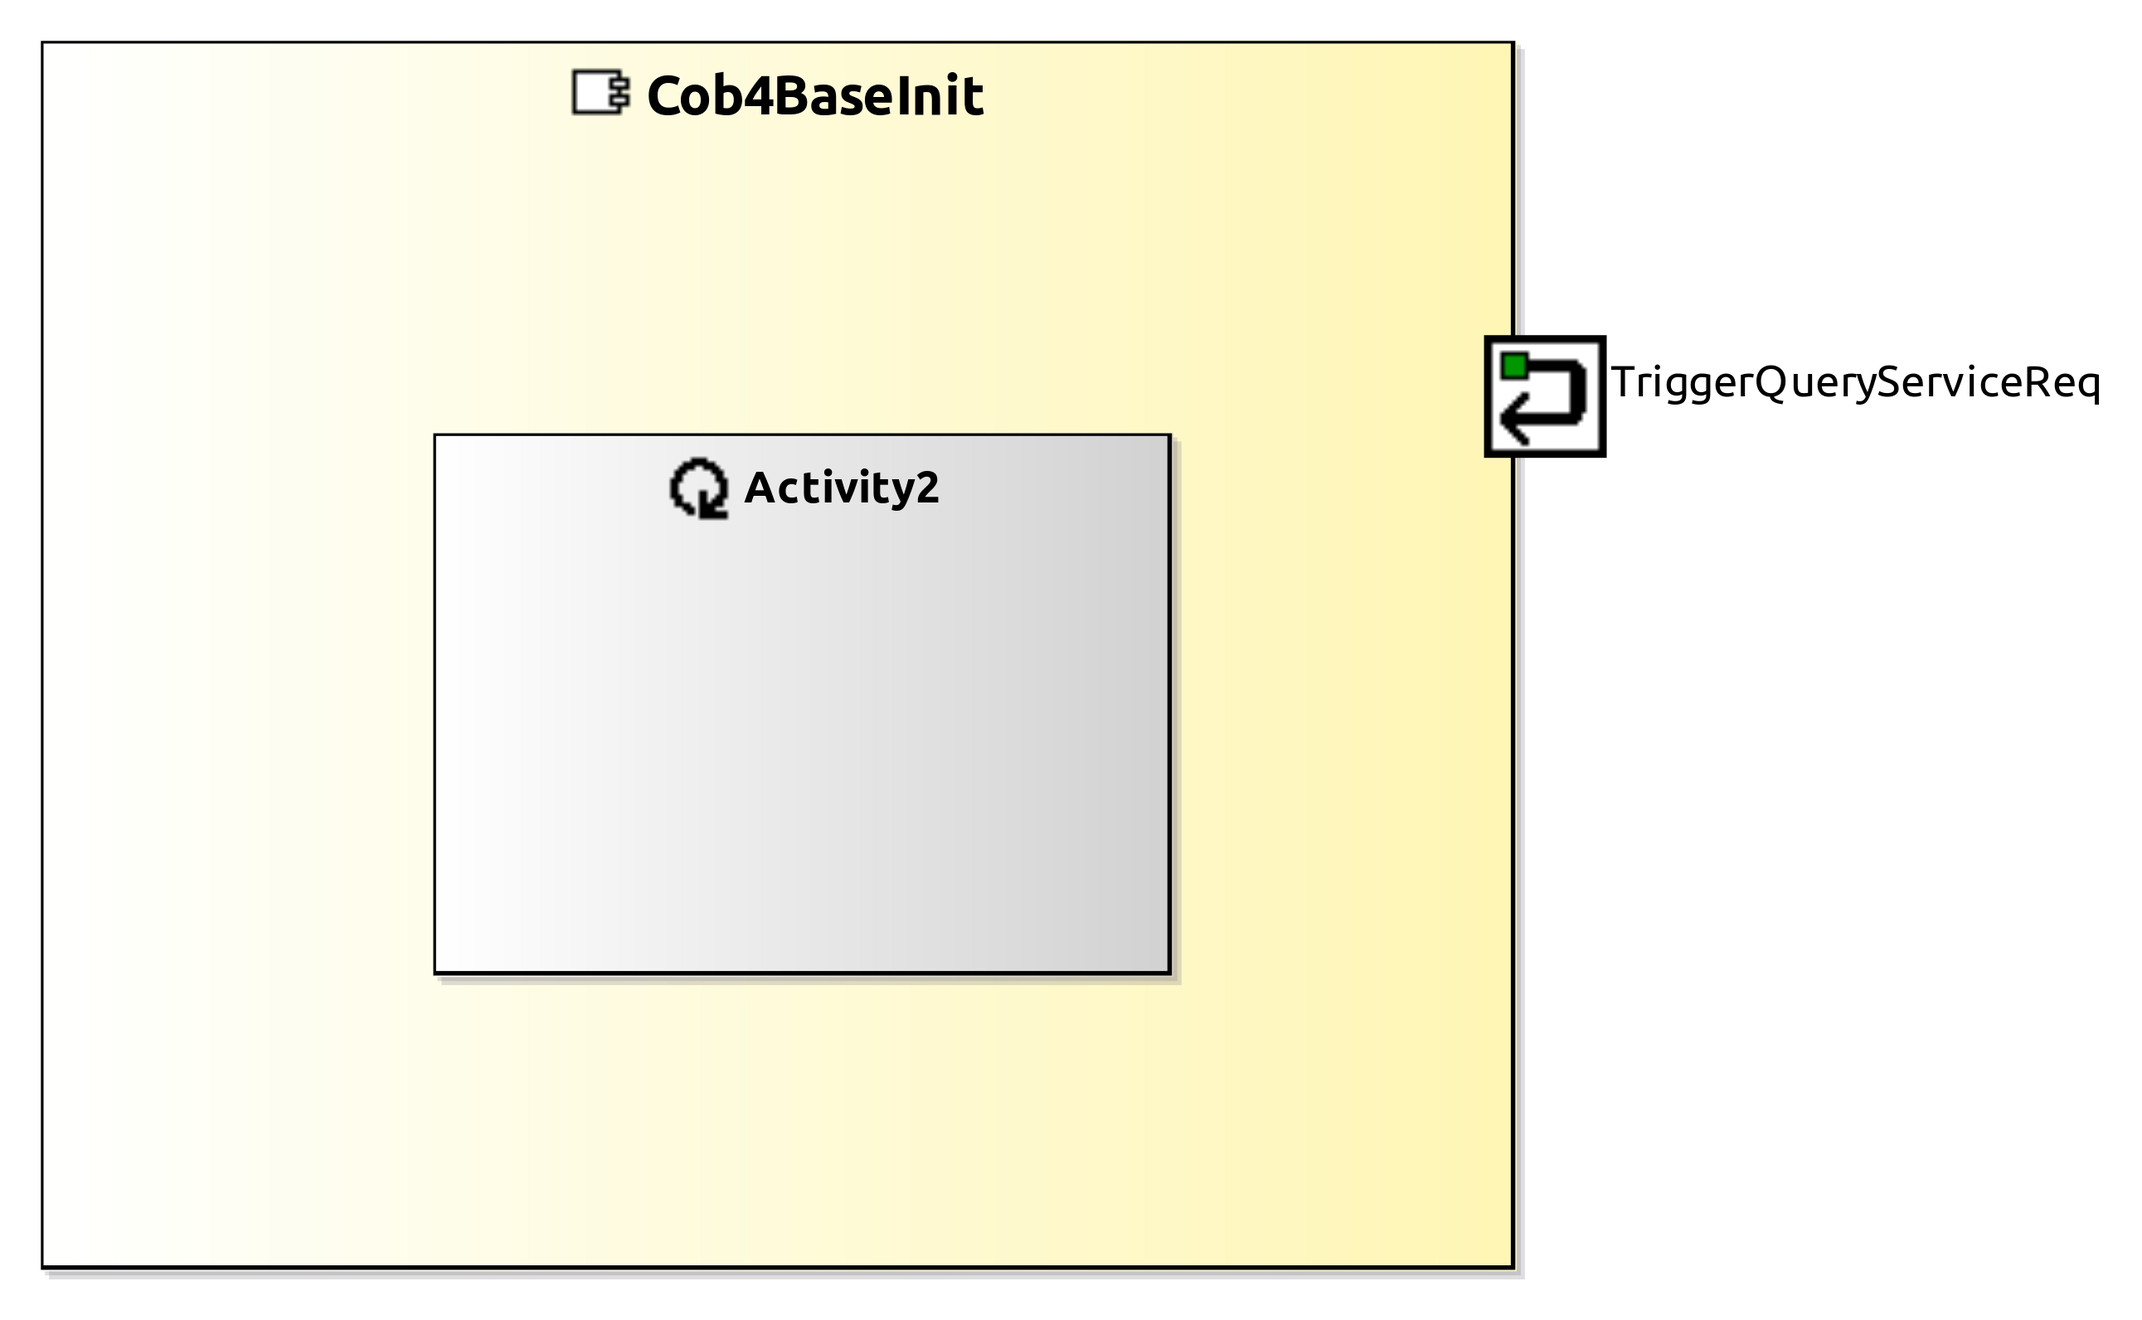
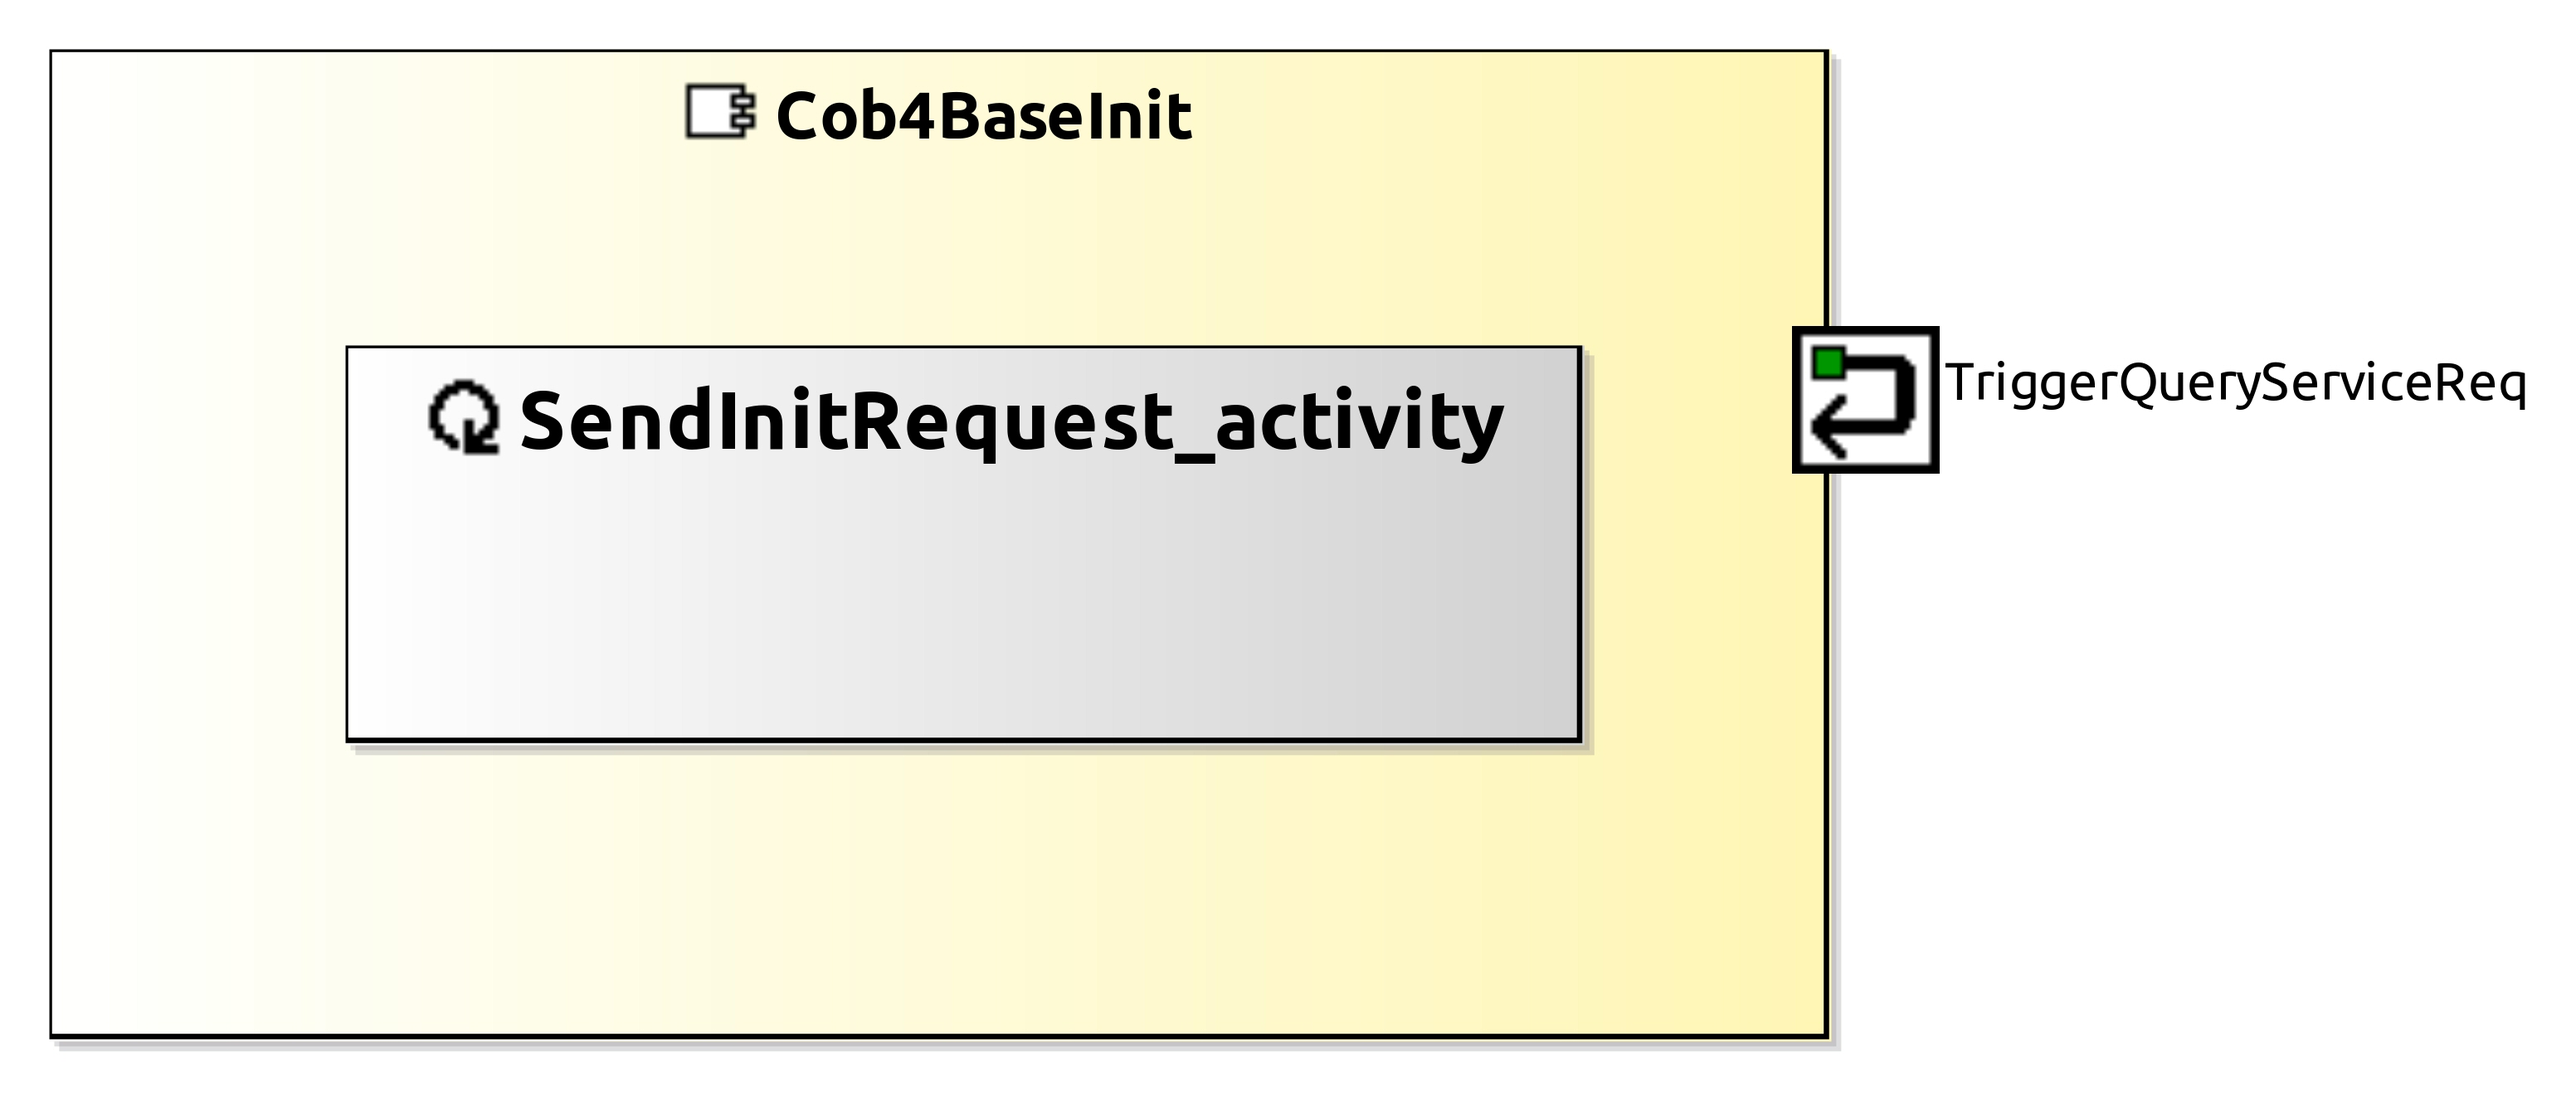
[RosServiceServer] Updated experiment files

Changed region(s): [[0.0, 0.0309, 0.9911, 0.9894], [0.1239, 0.3092, 0.6194, 0.773], [0.1239, 0.3092, 0.1549, 0.3401]]

diff --git a/SeRoNet-Tooling-ROS-Mixed-Port/ROS-MixedPort-Examples/ROSServiceCall_examples/ComponentROSBaseInit/smartsoft/src-gen/ComponentROSBaseInit.cc b/SeRoNet-Tooling-ROS-Mixed-Port/ROS-MixedPort-Examples/ROSServiceCall_examples/ComponentROSBaseInit/smartsoft/src-gen/ComponentROSBaseInit.cc
@@ -31,10 +31,10 @@ ComponentROSBaseInit::ComponentROSBaseInit()
 	std::cout << "constructor of ComponentROSBaseInit\n";
 	
 	// set all pointer members to NULL
-	triggerQueryServiceAnsw = NULL;
-	triggerQueryServiceAnswInputTaskTrigger = NULL;
-	triggerQueryServiceAnswHandler = NULL;
 	//_base_driver_init_srvcli = NULL;
+	base_driver_init = NULL;
+	base_driver_initServiceAnsw = NULL;
+	base_driver_initServiceAnswInputTaskTrigger = NULL;
 	stateChangeHandler = NULL;
 	stateSlave = NULL;
 	wiringSlave = NULL;
@@ -45,8 +45,8 @@ ComponentROSBaseInit::ComponentROSBaseInit()
 	connections.component.defaultScheduler = "DEFAULT";
 	connections.component.useLogger = false;
 	
-	connections.triggerQueryServiceAnsw.serviceName = "TriggerQueryServiceAnsw";
-	connections.triggerQueryServiceAnsw.roboticMiddleware = "ACE_SmartSoft";
+	connections.base_driver_initServiceAnsw.serviceName = "base_driver_initServiceAnsw";
+	connections.base_driver_initServiceAnsw.roboticMiddleware = "ACE_SmartSoft";
 	
 	// initialize members of ComponentROSBaseInitROSExtension
 	rosPorts = 0;
@@ -166,8 +166,8 @@ void ComponentROSBaseInit::init(int argc, char *argv[])
 		
 		// create server ports
 		// TODO: set minCycleTime from Ini-file
-		triggerQueryServiceAnsw = portFactoryRegistry[connections.triggerQueryServiceAnsw.roboticMiddleware]->createTriggerQueryServiceAnsw(connections.triggerQueryServiceAnsw.serviceName);
-		triggerQueryServiceAnswInputTaskTrigger = new Smart::QueryServerTaskTrigger<ROSRos_core::Std_srvs_TriggerRequest, ROSRos_core::Std_srvs_TriggerResponse>(triggerQueryServiceAnsw);
+		base_driver_initServiceAnsw = portFactoryRegistry[connections.base_driver_initServiceAnsw.roboticMiddleware]->createBase_driver_initServiceAnsw(connections.base_driver_initServiceAnsw.serviceName);
+		base_driver_initServiceAnswInputTaskTrigger = new Smart::QueryServerTaskTrigger<ROSRos_core::Std_srvs_TriggerRequest, ROSRos_core::Std_srvs_TriggerResponse>(base_driver_initServiceAnsw);
 		
 		// create client ports
 		
@@ -176,7 +176,7 @@ void ComponentROSBaseInit::init(int argc, char *argv[])
 		// create input-handler
 		
 		// create request-handlers
-		triggerQueryServiceAnswHandler = new TriggerQueryServiceAnswHandler(triggerQueryServiceAnsw);
+		base_driver_init = new Base_driver_init(base_driver_initServiceAnsw);
 		
 		// create state pattern
 		stateChangeHandler = new SmartStateChangeHandler();
@@ -260,12 +260,12 @@ void ComponentROSBaseInit::fini()
 	// destroy client ports
 
 	// destroy server ports
-	delete triggerQueryServiceAnsw;
-	delete triggerQueryServiceAnswInputTaskTrigger;
+	delete base_driver_initServiceAnsw;
+	delete base_driver_initServiceAnswInputTaskTrigger;
 	// destroy event-test handlers (if needed)
 	
 	// destroy request-handlers
-	delete triggerQueryServiceAnswHandler;
+	delete base_driver_init;
 	
 	delete stateSlave;
 	// destroy state-change-handler
@@ -366,10 +366,10 @@ void ComponentROSBaseInit::loadParameter(int argc, char *argv[])
 		}
 		
 		
-		// load parameters for server TriggerQueryServiceAnsw
-		parameter.getString("TriggerQueryServiceAnsw", "serviceName", connections.triggerQueryServiceAnsw.serviceName);
-		if(parameter.checkIfParameterExists("TriggerQueryServiceAnsw", "roboticMiddleware")) {
-			parameter.getString("TriggerQueryServiceAnsw", "roboticMiddleware", connections.triggerQueryServiceAnsw.roboticMiddleware);
+		// load parameters for server base_driver_initServiceAnsw
+		parameter.getString("base_driver_initServiceAnsw", "serviceName", connections.base_driver_initServiceAnsw.serviceName);
+		if(parameter.checkIfParameterExists("base_driver_initServiceAnsw", "roboticMiddleware")) {
+			parameter.getString("base_driver_initServiceAnsw", "roboticMiddleware", connections.base_driver_initServiceAnsw.roboticMiddleware);
 		}
 		
 		

diff --git a/SeRoNet-Tooling-ROS-Mixed-Port/ROS-MixedPort-Examples/ROSServiceCall_examples/ComponentROSBaseInit/smartsoft/src-gen/Base_driver_initCore.cc b/SeRoNet-Tooling-ROS-Mixed-Port/ROS-MixedPort-Examples/ROSServiceCall_examples/ComponentROSBaseInit/smartsoft/src-gen/Base_driver_initCore.cc
@@ -13,39 +13,39 @@
 // Please do not modify this file. It will be re-generated
 // running the code generator.
 //--------------------------------------------------------------------------
-#include "TriggerQueryServiceAnswHandlerCore.hh"
-#include "TriggerQueryServiceAnswHandler.hh"
+#include "Base_driver_initCore.hh"
+#include "Base_driver_init.hh"
 
 // include observers
 
-TriggerQueryServiceAnswHandlerCore::TriggerQueryServiceAnswHandlerCore(IQueryServer* server)
+Base_driver_initCore::Base_driver_initCore(IQueryServer* server)
 :	Smart::IInputHandler<std::pair<Smart::QueryIdPtr,ROSRos_core::Std_srvs_TriggerRequest>>(server)
 ,	server(server)
 {
 	
 }
 
-void TriggerQueryServiceAnswHandlerCore::updateAllCommObjects()
+void Base_driver_initCore::updateAllCommObjects()
 {
 }
 
-void TriggerQueryServiceAnswHandlerCore::notify_all_interaction_observers() {
+void Base_driver_initCore::notify_all_interaction_observers() {
 	std::unique_lock<std::mutex> lock(interaction_observers_mutex);
 	// try dynamically down-casting this class to the derived class 
 	// (we can do it safely here as we exactly know the derived class)
-	if(const TriggerQueryServiceAnswHandler* triggerQueryServiceAnswHandler = dynamic_cast<const TriggerQueryServiceAnswHandler*>(this)) {
+	if(const Base_driver_init* base_driver_init = dynamic_cast<const Base_driver_init*>(this)) {
 		for(auto it=interaction_observers.begin(); it!=interaction_observers.end(); it++) {
-			(*it)->on_update_from(triggerQueryServiceAnswHandler);
+			(*it)->on_update_from(base_driver_init);
 		}
 	}
 }
 
-void TriggerQueryServiceAnswHandlerCore::attach_interaction_observer(TriggerQueryServiceAnswHandlerObserverInterface *observer) {
+void Base_driver_initCore::attach_interaction_observer(Base_driver_initObserverInterface *observer) {
 	std::unique_lock<std::mutex> lock(interaction_observers_mutex);
 	interaction_observers.push_back(observer);
 }
 
-void TriggerQueryServiceAnswHandlerCore::detach_interaction_observer(TriggerQueryServiceAnswHandlerObserverInterface *observer) {
+void Base_driver_initCore::detach_interaction_observer(Base_driver_initObserverInterface *observer) {
 	std::unique_lock<std::mutex> lock(interaction_observers_mutex);
 	interaction_observers.remove(observer);
 }

diff --git a/SeRoNet-Tooling-ROS-Mixed-Port/ROS-MixedPort-Examples/ROSServiceCall_examples/ComponentROSBaseInit/smartsoft/src/Base_driver_init.cc b/SeRoNet-Tooling-ROS-Mixed-Port/ROS-MixedPort-Examples/ROSServiceCall_examples/ComponentROSBaseInit/smartsoft/src/Base_driver_init.cc
@@ -14,21 +14,22 @@
 // If you want the toolchain to re-generate this file, please 
 // delete it before running the code generator.
 //--------------------------------------------------------------------------
-#include "TriggerQueryServiceAnswHandler.hh"
+#include "Base_driver_init.hh"
 #include "ComponentROSBaseInit.hh"
 
-TriggerQueryServiceAnswHandler::TriggerQueryServiceAnswHandler(IQueryServer *server)
-:	TriggerQueryServiceAnswHandlerCore(server)
+
+Base_driver_init::Base_driver_init(IQueryServer *server)
+:	Base_driver_initCore(server)
 {
 	
 }
 
 
-void TriggerQueryServiceAnswHandler::handleQuery(const Smart::QueryIdPtr &id, const ROSRos_core::Std_srvs_TriggerRequest& request) 
+void Base_driver_init::handleQuery(const Smart::QueryIdPtr &id, const ROSRos_core::Std_srvs_TriggerRequest& request) 
 {
 	ROSRos_core::Std_srvs_TriggerResponse answer;
 	
 	// implement your query handling logic here and fill in the answer object
-	
+
 	this->server->answer(id, answer);
 }

diff --git a/SeRoNet-Tooling-ROS-Mixed-Port/ROS-MixedPort-Examples/ROSServiceCall_examples/ComponentROSBaseInit/opcua-backend/src-gen/ComponentROSBaseInitOpcUaBackendPortFactory.cc b/SeRoNet-Tooling-ROS-Mixed-Port/ROS-MixedPort-Examples/ROSServiceCall_examples/ComponentROSBaseInit/opcua-backend/src-gen/ComponentROSBaseInitOpcUaBackendPortFactory.cc
@@ -59,7 +59,7 @@ int ComponentROSBaseInitOpcUaBackendPortFactory::onStartup()
 }
 
 
-Smart::IQueryServerPattern<ROSRos_core::Std_srvs_TriggerRequest, ROSRos_core::Std_srvs_TriggerResponse> * ComponentROSBaseInitOpcUaBackendPortFactory::createTriggerQueryServiceAnsw(const std::string &serviceName)
+Smart::IQueryServerPattern<ROSRos_core::Std_srvs_TriggerRequest, ROSRos_core::Std_srvs_TriggerResponse> * ComponentROSBaseInitOpcUaBackendPortFactory::createBase_driver_initServiceAnsw(const std::string &serviceName)
 {
 	return new SeRoNet::OPCUA::Server::QueryServer<ROSRos_core::Std_srvs_TriggerRequest, ROSRos_core::Std_srvs_TriggerResponse>(componentImpl, serviceName);
 }

diff --git a/SeRoNet-Tooling-ROS-Mixed-Port/ROS-MixedPort-Examples/ROSServiceCall_examples/ComponentROSBaseInit/smartsoft/src-gen/ComponentROSBaseInitAcePortFactory.cc b/SeRoNet-Tooling-ROS-Mixed-Port/ROS-MixedPort-Examples/ROSServiceCall_examples/ComponentROSBaseInit/smartsoft/src-gen/ComponentROSBaseInitAcePortFactory.cc
@@ -53,7 +53,7 @@ int ComponentROSBaseInitAcePortFactory::onStartup()
 }
 
 
-Smart::IQueryServerPattern<ROSRos_core::Std_srvs_TriggerRequest, ROSRos_core::Std_srvs_TriggerResponse> * ComponentROSBaseInitAcePortFactory::createTriggerQueryServiceAnsw(const std::string &serviceName)
+Smart::IQueryServerPattern<ROSRos_core::Std_srvs_TriggerRequest, ROSRos_core::Std_srvs_TriggerResponse> * ComponentROSBaseInitAcePortFactory::createBase_driver_initServiceAnsw(const std::string &serviceName)
 {
 	return new SmartACE::QueryServer<ROSRos_core::Std_srvs_TriggerRequest, ROSRos_core::Std_srvs_TriggerResponse>(componentImpl, serviceName);
 }
